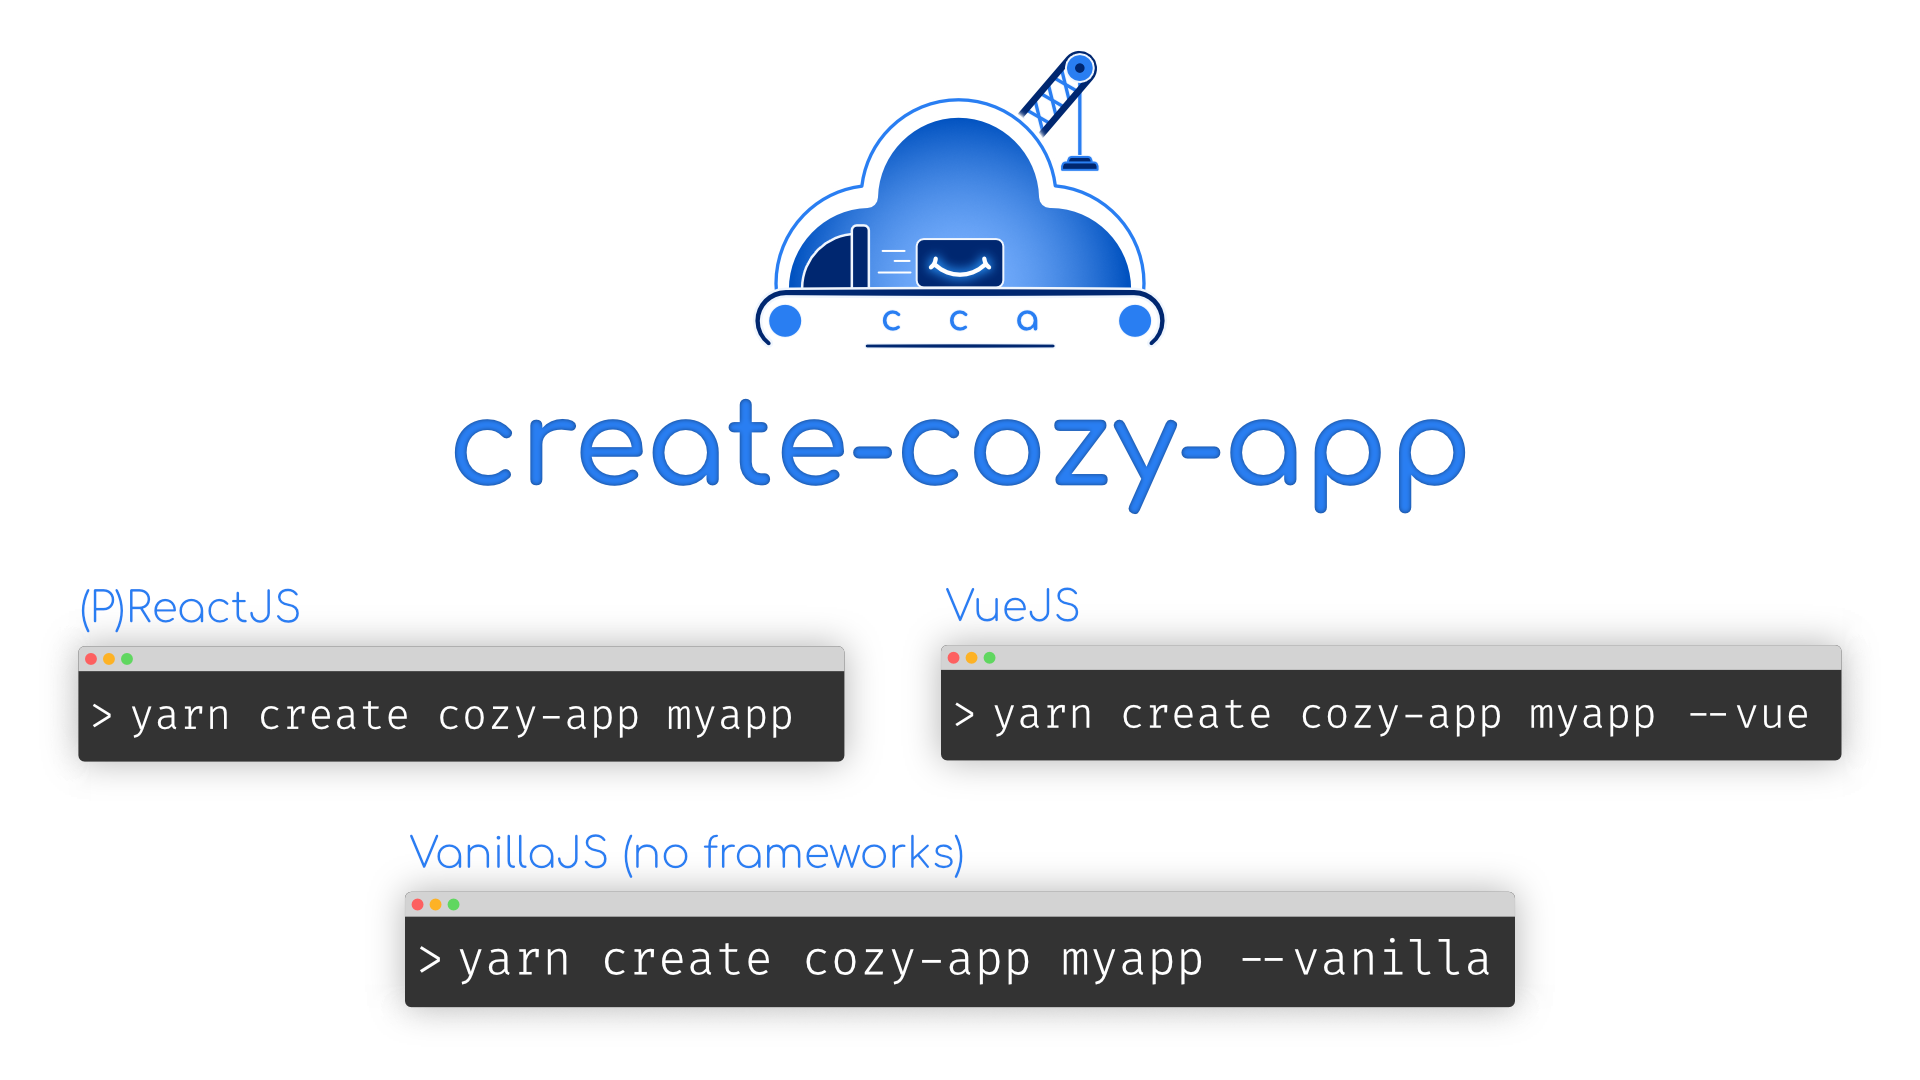
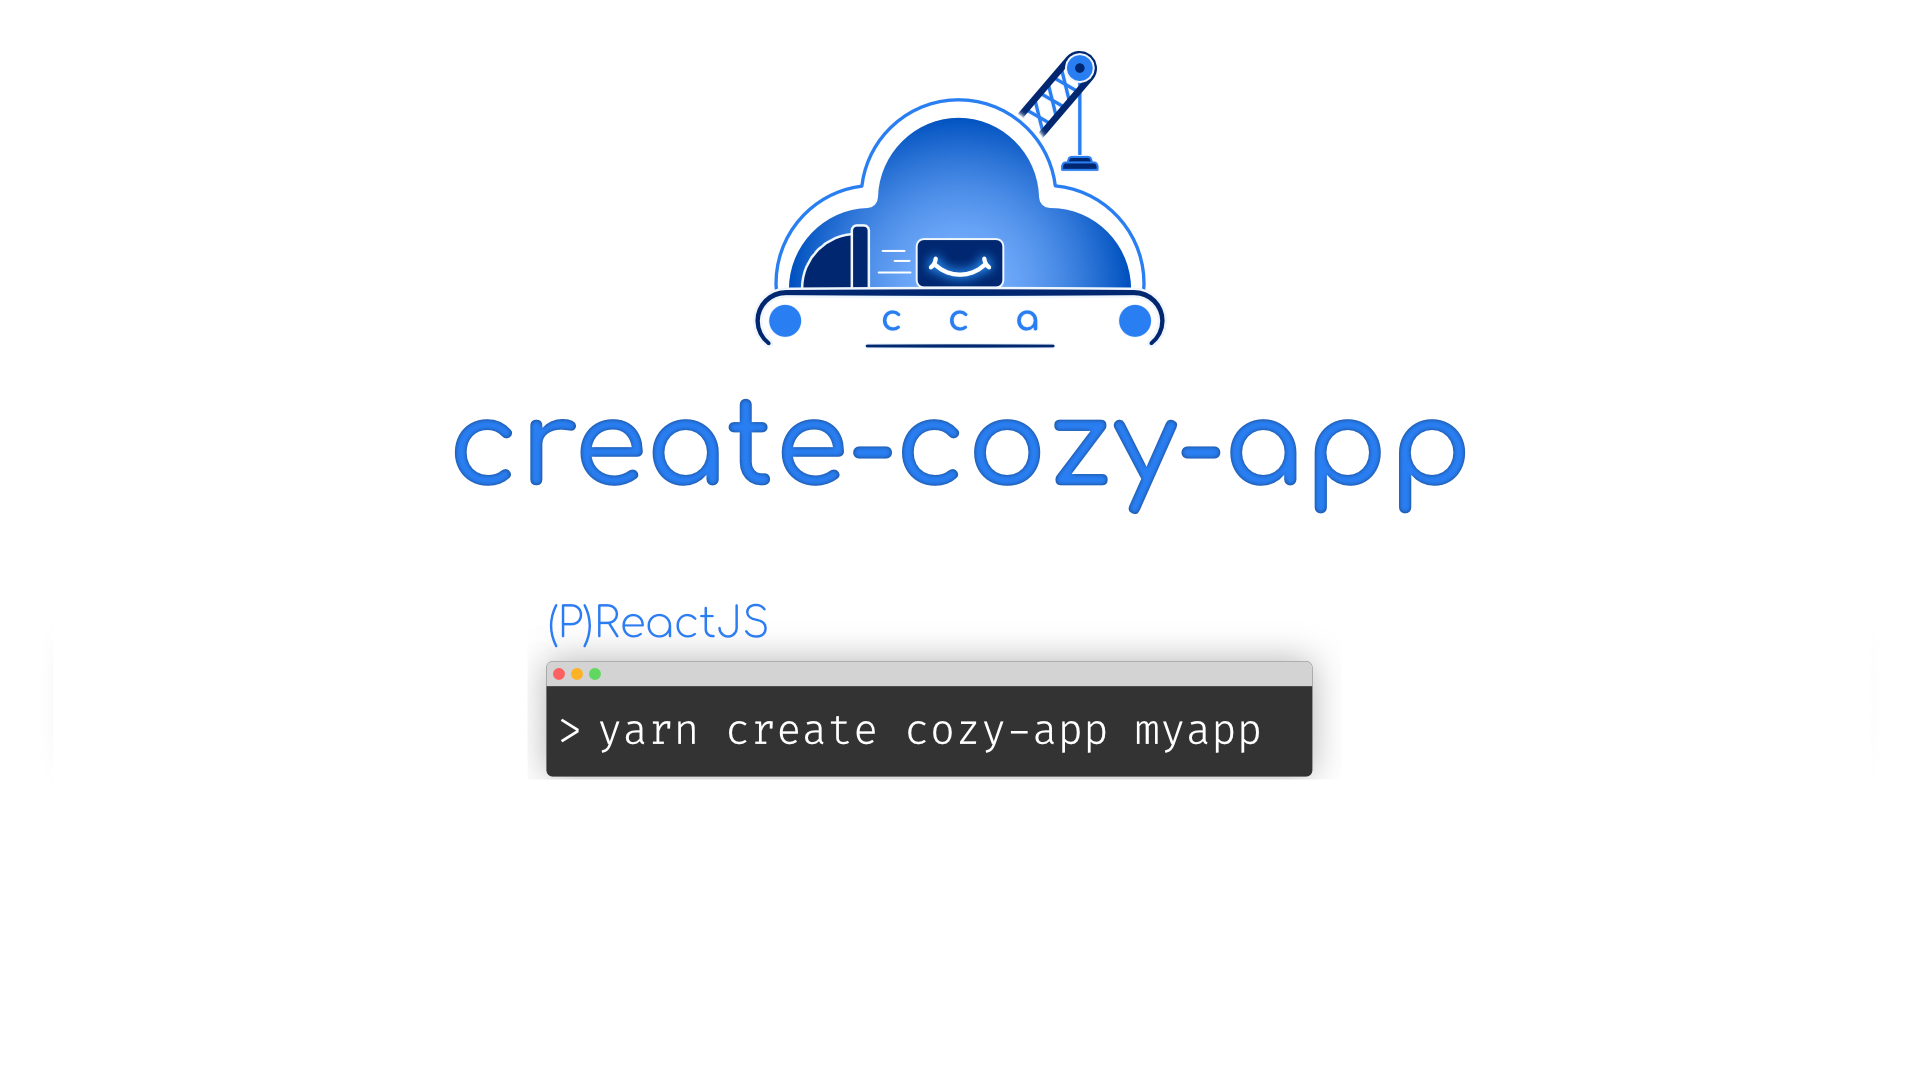
fix: Remove vue ref

Changed region(s): [[0.0312, 0.55, 0.9688, 0.7333], [0.1875, 0.7639, 0.8125, 0.9472]]

diff --git a/packages/cozy-scripts/README.md b/packages/cozy-scripts/README.md
@@ -91,55 +91,6 @@ mycozyapp/
 
 This application is more than a simple Hello World, it's a mini Todo application doing interactions and data handling (using our new [`cozy-client`](https://github.com/cozy/cozy-client)) with the stack. A good way to understand how the application works with the Cozy.
 
-### VueJS 2+ template (`template-vue` folder)
-
-Using the VueJS template, `cozy-scripts` will generate a VueJS/Vuex application. After the initialisation, you should have the following folder structure:
-
-<details>
-
-```
-mycozyapp/
-    babel.config.js
-    CONTRIBUTING.md
-    LICENSE
-    README.md
-    jest.config.js
-    manifest.webapp
-    node_modules/
-    package.json
-    yarn.lock
-    src/
-        assets/
-        components/
-            App.vue
-            Icon.vue
-            HelloViews/
-        lib/
-            store.js
-            I18n/
-        locales/en.json
-        styles/
-        targets/
-            browser/
-                index.ejs
-                index.js
-            intents/
-            mobile/
-            vendor/
-    test/
-    .editorconfig
-    .eslintrc.json
-    .github/
-        .ISSUE_TEMPLATE
-        .PULL_REQUEST_TEMPLATE
-    .gitignore
-    .stylintrc
-    .travis.yml
-    .tx/
-        config
-```
-
-</details>
 
 ### Ready to go
 
@@ -206,9 +157,6 @@ __You can find more informations about this library and how to use it in [`cozy-
 
 > :warning: __BE VERY CAREFUL__ using this script since __it will push directly to your remote repository__. A prompt will warn you before starting the release.
 
-##### - `--vue`
-
-Allow to use the VueJS webpack configuration as default opinionated configuration. You don't need an `app.config.js` to use the VueJS webpack bundle configuration (`wepack.bundle.vue.js`) with this option.
 
 ##### - `--production` or `--development` options
 
@@ -222,10 +170,9 @@ Allow to pass the wanted build target to `cozy-scripts`. This target will be ove
 
 Use this option if you want to analyze your builds content using the webpack plugin [`webpack-bundle-analyzer`](https://github.com/webpack-contrib/webpack-bundle-analyzer). It will open you browser with an interactive treemap visualization of the contents of all your bundles.
 
-##### - `--no-stack`
+##### - `--stack`
 
-Use this option if you want to run `cozy-scripts start` without launching the Cozy stack using docker. You will only have Webpack watching with `webpack-dev-server`.
-It could be useful if you already have a Cozy stack running elsewhere in your environment.
+Use this option if you want to run `cozy-scripts start` with launching the Cozy stack using docker. 
 
 ##### - Custom paths providing options: `--src-dir`, `--build-dir`, `--manifest`
 
@@ -237,15 +184,13 @@ Use these options if you want to `build`/`watch`/`start` your application with c
 
 ### The `cozy-scripts` webpack configuration
 
-`cozy-scripts` is designed to use a default webpack configuration for a basic React/Redux (or VueJS) application which uses `cozy-ui` and `cozy-client-js`. But you can override or use your custom configuration files by creating a new `app.config.js` file in your application root folder. Here is an example to overload the default bundle config with a custom one:
+`cozy-scripts` is designed to use a default webpack configuration for a basic React/Redux application which uses `cozy-ui` and `cozy-client-js`. But you can override or use your custom configuration files by creating a new `app.config.js` file in your application root folder. Here is an example to overload the default bundle config with a custom one:
 
 ```javascript
 // myapp/app.config.js
 module.exports = [
   // default for React/Redux
   require('cozy-scripts/config/webpack.bundle.default.js'),
-  // here is the equivalent one for vue
-  // require('cozy-scripts/config/webpack.bundle.vue.js'),
   require('./config/webpack.myconfig.js')
 ]
 ```

diff --git a/README.md b/README.md
@@ -5,11 +5,11 @@
 <h1 align="center">Create Cozy App</h1>
 
 <div align="center">
-  <a href="https://github.com/CPatchane/create-cozy-app/blob/master/packages/create-cozy-app/LICENSE">
+  <a href="https://github.com/cozy/create-cozy-app/blob/master/packages/create-cozy-app/LICENSE">
     <img src="https://img.shields.io/npm/l/create-cozy-app.svg" alt="license" />
   </a>
-  <a href="https://travis-ci.org/CPatchane/create-cozy-app">
-    <img src="https://img.shields.io/travis/CPatchane/create-cozy-app.svg" alt="travis" />
+  <a href="https://travis-ci.org/cozy/create-cozy-app">
+    <img src="https://img.shields.io/travis/cozy/create-cozy-app.svg" alt="travis" />
   </a>
   <a href="https://renovateapp.com/">
     <img src="https://img.shields.io/badge/renovate-enabled-brightgreen.svg" alt="renovate" />
@@ -27,15 +27,14 @@
 
 This tool can be run as an installed CLI or by using `yarn create`, see below for more information.
 
-By default, `create-cozy-app` will use the [`cozy-scripts`](https://github.com/CPatchane/create-cozy-app/tree/master/packages/cozy-scripts) scripts bundle to build your app based on React. But option for VueJS or Vanilla are also available, see below for more information.
+By default, `create-cozy-app` will use the [`cozy-scripts`](https://github.com/cozy/create-cozy-app/tree/master/packages/cozy-scripts) scripts bundle to build your app based on React. 
 
 __You can find a complete tutorial about creating a Cozy application using `create-cozy-app` in [the official documentation (docs.cozy.io)](https://docs.cozy.io/en/tutorials/app/).__
 
-> :information_source: The packages __`babel-preset-cozy-app`__ and __`eslint-config-cozy-app`__ have been moved to the [`cozy-libs`](https://github.com/cozy/cozy-libs) repository since their version 1.0.0.
 
 #### Requirements
 
- - NodeJS version 8 or higher;
+ - NodeJS version 10 or higher;
  - [Yarn](https://yarnpkg.com): a NodeJS package manager, like `npm`;
  - a running [Cozy development environment](https://docs.cozy.io/en/dev/app/#install-the-development-environment)
 
@@ -74,14 +73,25 @@ create-cozy-app mycozyapp
 
 The script will download some dependencies (may take a while) and ask you a few questions, then creates an application skeleton inside `mycozyapp`.
 
-That's it! You can already tart hacking:
+#### With stack from docker
+
+That's it! You can already start hacking:
+
+```
+cd mycozyapp
+yarn start --stack
+```
+
+After the webpack build and the docker environment ready, the `mycozyapp` app here will be available at http://mycozyapp.cozy.tools:8080
+
+#### With stack from source
+
+That's it! You can already start hacking:
 
 ```
 cd mycozyapp
 yarn start
 ```
-
-After the webpack build and the docker environment ready, the `mycozyapp` app here will be available at http://mycozyapp.cozy.tools:8080
 
 ### Options
 
@@ -93,11 +103,7 @@ You can pass a custom scripts package using the optional `--scripts-source` opti
 - an __absolute local path__ to a tarball (`fileAbs:` prefix): `fileAbs:/root/my-cozy-scripts.tar.gz`
 - an __URL__ to a tarball (`url:` prefix): `url:https://myurl.com/my-cozy-scripts.tar.gz`
 - a specific __npm version__ (`version:` prefix): `version:0.1.5`
-- a specific __git commit/branch__ with name provided after the '#' (`git:` prefix): `git://github.com/CPatchane/cozy-scripts.git#master`
-
-##### `--vue`
-
-Using this options, `create-cozy-app` will use the `cozy-scripts` package but with the `template-vue` template folder in order to build a Cozy application using the [VueJS 2+ framework](https://vuejs.org).
+- a specific __git commit/branch__ with name provided after the '#' (`git:` prefix): `git://github.com/cozy/cozy-scripts.git#master`
 
 ##### `--verbose`
 

diff --git a/packages/create-cozy-app/README.md b/packages/create-cozy-app/README.md
@@ -30,13 +30,13 @@
 
 This tool can be run as an installed CLI or by using `yarn create`, see below for more information.
 
-By default, `create-cozy-app` will use the [`cozy-scripts`](https://github.com/CPatchane/create-cozy-app/tree/master/packages/cozy-scripts) scripts bundle to build your app based on React. But option for VueJS or Vanilla are also available, see below for more information.
+By default, `create-cozy-app` will use the [`cozy-scripts`](https://github.com/CPatchane/create-cozy-app/tree/master/packages/cozy-scripts) scripts bundle to build your app based on React. 
 
 __You can find a complete tutorial about creating a Cozy application using `create-cozy-app` in [the official documentation (docs.cozy.io)](https://docs.cozy.io/en/tutorials/app/).__
 
 #### Requirements
 
- - NodeJS version 8 or higher;
+ - NodeJS version 10 or higher;
  - [Yarn](https://yarnpkg.com): a NodeJS package manager, like `npm`;
  - a running [Cozy development environment](https://docs.cozy.io/en/dev/app/#install-the-development-environment)
 
@@ -75,14 +75,24 @@ create-cozy-app mycozyapp
 
 The script will download some dependencies (may take a while) and ask you a few questions, then creates an application skeleton inside `mycozyapp`.
 
-That's it! You can already tart hacking:
+#### With stack from docker 
+
+That's it! You can already start hacking:
+
+```
+cd mycozyapp
+yarn start --stack
+```
+
+After the webpack build and the docker environment ready, the `mycozyapp` app here will be available at http://mycozyapp.cozy.tools:8080
+
+#### With stack built from source
 
 ```
 cd mycozyapp
 yarn start
 ```
 
-After the webpack build and the docker environment ready, the `mycozyapp` app here will be available at http://mycozyapp.cozy.tools:8080
 
 ### Options
 
@@ -96,13 +106,6 @@ You can pass a custom scripts package using the optional `--scripts-source` opti
 - a specific __npm version__ (`version:` prefix): `version:0.1.5`
 - a specific __git commit/branch__ with name provided after the '#' (`git:` prefix): `git://github.com/CPatchane/cozy-scripts.git#master`
 
-##### `--vue`
-
-Using this options, `create-cozy-app` will use the `cozy-scripts` package but with the `template-vue` template folder in order to build a Cozy application using the [VueJS 2+ framework](https://vuejs.org).
-
-##### `--vanilla`
-
-Using this options, `create-cozy-app` will use the `cozy-scripts-vanilla` package (instead of the default one: `cozy-scripts`) and build a Cozy application in VanillaJS without any npm dependencies.
 
 ##### `--verbose`
 

diff --git a/packages/cozy-scripts/docs/webpack-configs.md b/packages/cozy-scripts/docs/webpack-configs.md
@@ -21,12 +21,10 @@
     - [`webpack.config.hash.js`](#webpackconfighashjs)
     - [`webpack.config.manifest.js`](#webpackconfigmanifestjs)
     - [`webpack.config.pictures.js`](#webpackconfigpicturesjs)
-    - [`webpack.config.preact.js`](#webpackconfigpreactjs)
     - [`webpack.config.progress.js`](#webpackconfigprogressjs)
     - [`webpack.config.services.js`](#webpackconfigservicesjs)
     - [`webpack.config.react.js`](#webpackconfigreactjs)
     - [`webpack.config.vendors.js`](#webpackconfigvendorsjs)
-    - [`webpack.config.vue.js`](#webpackconfigvuejs)
 - [Environments](#environments)
     - [`webpack.environment.dev.js`](#webpackenvironmentdevjs)
         - [Properties](#properties-1)
@@ -201,17 +199,6 @@ It will add two rules:
 
 It also adds `svg-sprite-loader/plugin` as plugin to use it with the related loader.
 
-### `webpack.config.preact.js`
-
-A config to resolve all `react` aliases using [`Preact`](https://preactjs.com) instead.
-
-It will:
-- resolve `.jsx` extensions
-- add aliases:
-    - `react` to `preact-compat`
-    - `react-dom` to `preact-compat`
-    - Due to [an HMR issue](https://github.com/developit/preact-compat/issues/392), `preact-compat` to `preact-compat/dist/preact-compat`
-- add a rule for `.jsx` files excluding `node_modules` (exception for `node_modules/cozy-ui`) to be loaded using `babel-loader` (with `cacheDirectory` option for caching in `node_modules/.cache/babel-loader`)
 
 ### `webpack.config.progress.js`
 
@@ -247,14 +234,6 @@ It will:
 A `copy-webpack-plugin` plugin usage to copy all files from the `vendors/assets/` folder to the output build folder.
 
 This config will also process the application icon and run [`svgo`](https://github.com/svg/svgo) to optimize it if this is a SVG file.
-
-### `webpack.config.vue.js`
-
-A config to use the VueJS (v2+) framework.
-
-It will:
-- resolve `.vue` extensions
-- add a rule for `.vue` files, excluding `node_modules`, to be loaded using `vue-loader`.
 
 
 ## Environments
